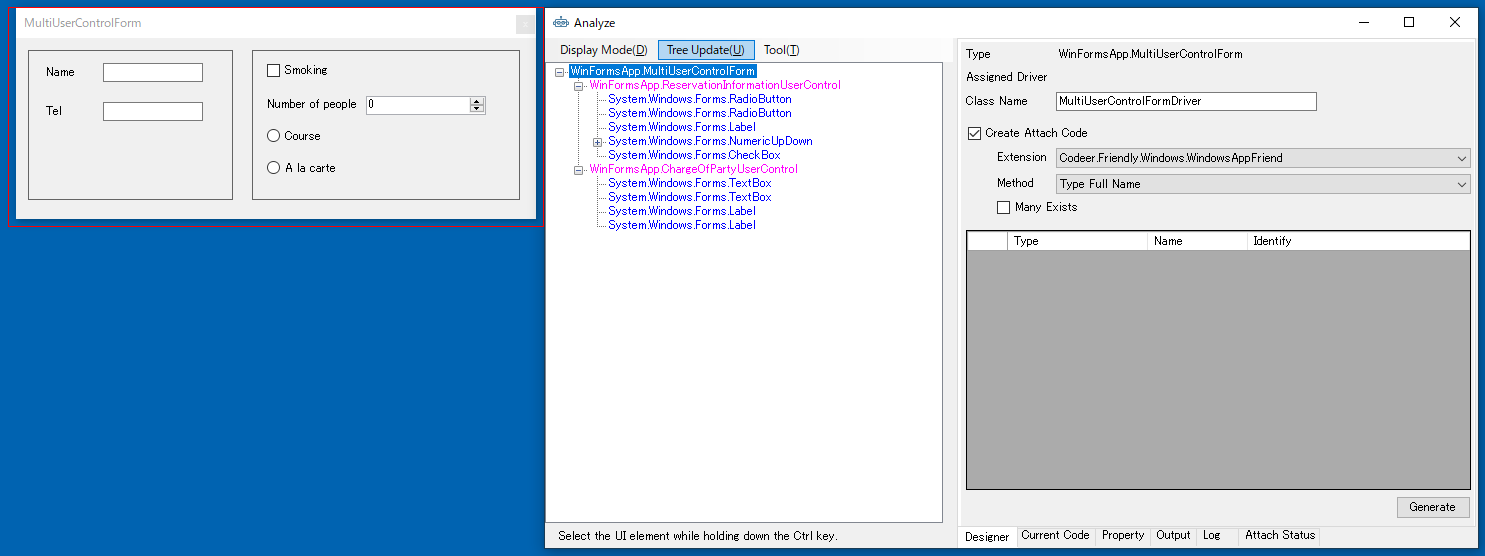
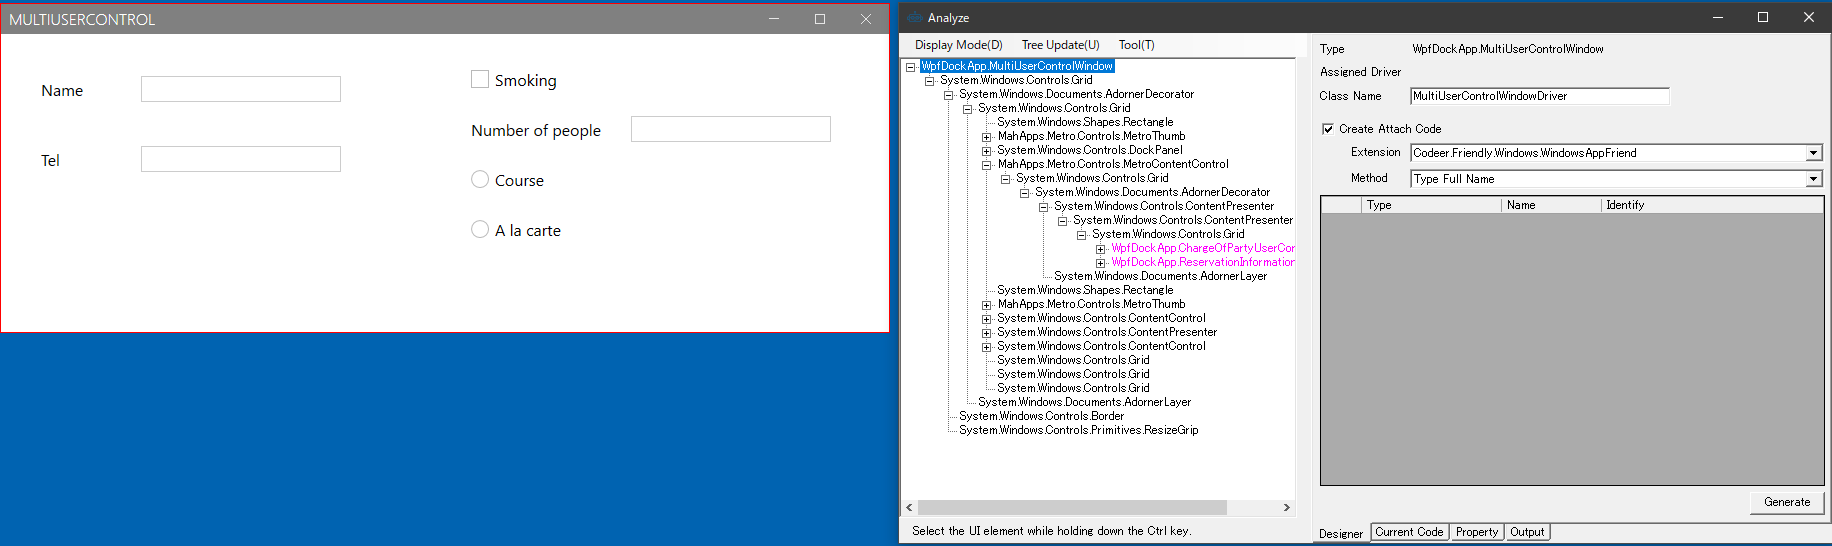
画面コピー更新

diff --git a/WPF/feature/GeneratedCode.md b/WPF/feature/GeneratedCode.md
@@ -13,45 +13,33 @@ using Codeer.Friendly.Dynamic;
 using Codeer.Friendly.Windows;
 using Codeer.Friendly.Windows.Grasp;
 using Codeer.TestAssistant.GeneratorToolKit;
-using Ong.Friendly.FormsStandardControls;
+using RM.Friendly.WPFStandardControls;
+using System.Linq;
 
 namespace Driver.Windows
 {
-    //WindowDriverであることを明示します。
-    //対応するWindowのタイプフルネームを指定します。
-    //WindowDriverAttributeを付けることでTestAssistantProが
-    //AnalyzeWindowでコントロールに対してすでにドライバが割り当てられていることを検知します。
-    [WindowDriver(TypeFullName = "XXX.YForm")]
-    public class YFormDriver
+    [WindowDriver(TypeFullName = "WpfDockApp.YWindow")]
+    public class YWindowDriver
     {
-        //Fromに対応する変数
         public WindowControl Core { get; }
+        public WPFMenuBase Menu => Core.Dynamic().Menu; 
 
-        //ControlDriverを並べる
-        //ControlDriverを特定するのが責務
-        public FormsButton _buttonCancel => Core.Dynamic()._buttonCancel; 
-        public FormsButton _buttonOK => Core.Dynamic()._buttonOK; 
-        public FormsRichTextBox _richTextBoxRemarks => Core.Dynamic()._richTextBoxRemarks; 
-
-        public YFormDriver(WindowControl core)
+        public YWindowDriver(WindowControl core)
         {
             Core = core;
         }
 
-        public YFormDriver(AppVar core)
+        public YWindowDriver(AppVar core)
         {
             Core = new WindowControl(core);
         }
     }
 
-    public static class YFormDriverExtensions
+    public static class YWindowDriverExtensions
     {
-        //アプリケーションからYFormを特定して取得します。
-        //WindowDriverIdentifyAttributeを付けることでTestAssistantProがこのメソッドを使えるようになります。
-        //Attachについては後述します。
-        [WindowDriverIdentify(TypeFullName = "XXX.YForm")]
-        public static YFormDriver AttachYForm(this WindowsAppFriend app)
-            => app.WaitForIdentifyFromTypeFullName("XXX.YForm").Dynamic();
+        [WindowDriverIdentify(TypeFullName = "WpfDockApp.YWindow")]
+        public static YWindowDriver AttachYWindow(this WindowsAppFriend app)
+            => app.WaitForIdentifyFromTypeFullName("WpfDockApp.YWindow").Dynamic();
     }
 }
 ```
